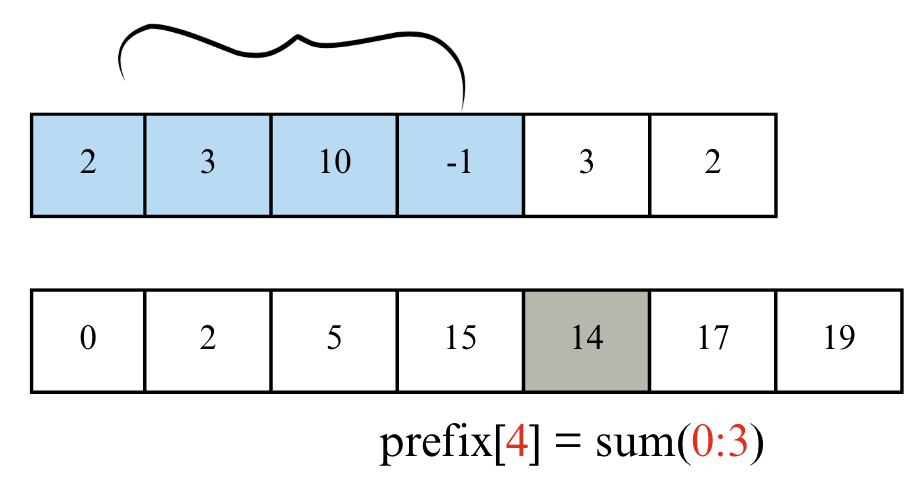
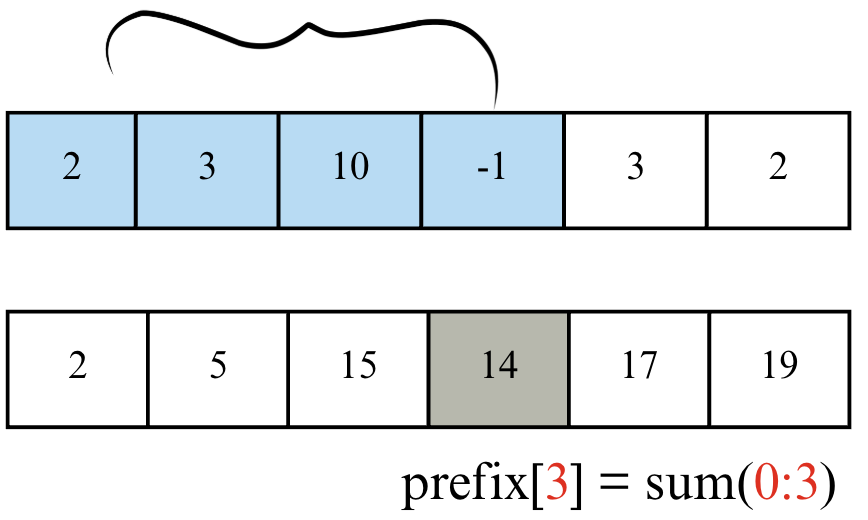
20251110

diff --git a/_pages/theory/10_prefix.md b/_pages/theory/10_prefix.md
@@ -48,17 +48,16 @@ kernelspec:
 :class: dropdown
 
 ```python
-# 기본 배열
 data = [1, 2, 3, 4, 5]
 
-# prefix_sum[i]: data[0] ~ data[i]까지의 합 (i is included)
-prefix_sum = [0] * len(data)
-prefix_sum[0] = data[0] # INIT 
+n= len(data)
+px = [0]*n
 
-for i in range(1, len(data)):
-    prefix_sum[i] = prefix_sum[i-1] + data[i]
+# px[i]: data[0] ~ data[i]까지의 함 (i is included)
+for i in range(n):
+    px[i] = px[i-1] + data[i]
 
-print("Prefix Sum:", prefix_sum)
+print("Prefix Sum:", px)
 ```
 출력: 
 ```bash
@@ -66,21 +65,27 @@ Prefix Sum: [1, 3, 6, 10, 15]
 ```
 ````
 
-위의 코드에서는 prefix[i] = sum[i-1] + A[i]로 계산하였다. 하지만 이 방식은 추가적으로 초기화 코드라인이 필요하기 때문에, 아래와 같은 방식으로 prefix sum array를 계산한다. 
+위의 코드에서는 prefix[i] = sum[i-1] + A[i]로 계산하였다. 하지만 보통은 아래와 같은 방식으로 prefix sum array를 계산한다. 문제 풀이 시에는 계산을 단순하게 하기 위해 보통 prefix 배열을 길이 N+1로 만들고, prefix[0] = 0으로 초기화한다. 즉, prefix[0]이 없는 경우, 
 
+arr[0]~arr[3] 구간합 = px[3]
+arr[1]~arr[3] 구간합 = px[3] - px[0]
+
+으로 prefix[0]이 arr[0]을 포함하고 있어 인덱스 계산이 번거롭게 달라져 계산 실수할 수 있다. 
+
+<img src="../../assets/img/prefix/8.png" width="500px">
+
+따라서 위의 그림처럼 prefix[0]= 0을 포함하여 일관성있게 0-based에서 [i:j]구간합을 prefix[j+1]-prefix[i]로 계산할 수 있게 코드를 구현한다.
 
 ````{admonition} Prefix 배열의 첫 번째 원소를 0으로 두기 
 :class: dropdown
 
 문제 풀이 시에는 계산을 단순하게 하기 위해 보통 prefix 배열을 길이 N+1로 만들고, prefix[0] = 0으로 초기화한다. 
-즉, ***prefix[i]에는 인덱스 [0, i-1]까지의 누적합 = 원소 [1, i] 번째 (1-based) 누적합*** 이 저장된다. 
+즉, ***prefix[i]에는 인덱스 [0, i-1]까지의 누적합*** 이 저장된다. 
 
 - prefix[1] = prefix[0] + data[0] → data[0]까지의 합
 - prefix[2] = prefix[1] + data[1] → data[0] + data[1]까지의 합
 - ... 
 - prefix[i] = data[0]부터 data[i-1]까지의 합
-
-따라서, 원소 [2, 5]번째까지의 누적합은 인덱스 [1, 4]까지의 누적합이고 따라서, prefix[5]-prefix[2]로 계산하면 된다. 
 
 ```{code-block} python
 arr = [1, 2, 3, 4, 5, 6, 7, 8, 9, 10]
@@ -93,7 +98,7 @@ def prefix_sum(arr):
 
     return prefix 
 
-def Sum(prefix_arr, a, b):
+def range_sum(prefix_arr, a, b):
     # a, b: index 
     '''
     [a, b] 모두 포함되어야하므로, 
@@ -106,7 +111,7 @@ prefix_arr = prefix_sum(arr)
 a=1; b=3
 print(f"Arr: {arr}")
 print(f"Prefix: {prefix_arr}")
-print(f"Sum from {a} to {b} is {Sum(prefix_arr, a, b)}")
+print(f"Sum from {a} to {b} is {range_sum(prefix_arr, a, b)}")
 ```
 출력:
 ```bash
@@ -128,8 +133,6 @@ Sum from 1 to 3 is 9
 prefix[i] = \sum_{k=0}^{i-1} A[k]
 \end{gather*}
 
-위에서 구간합 sum(1:4) (4는 포함)을 구할때 sum(0:4)-sum(0:0)이므로 prefix(4+1)-prefix(0+1) 으로 계산하면 된다. 
-
 구간 합 공식은 다음과 같다. <br>
 
 배열 인덱스가 0부터 시작한다고 하고 0-based array에서 preifx[0]=0, len(prefix)= N+1인 prefix array를 이용한 (i, j)의 구간합은 아래와 같다. 
@@ -137,7 +140,7 @@ prefix[i] = \sum_{k=0}^{i-1} A[k]
 \begin{align*}
 \sum(i, j) = prefix[j+1] - prefix[i] 
 \\
-단, $i=0$일 때는 단순히 prefix[j]
+단, i=0일 때는 단순히 \;prefix[j]
 \end{align*}
 
 
@@ -155,11 +158,12 @@ prefix[i] = \sum_{k=0}^{i-1} A[k]
 ````{admonition} Summary
 :class: important 
 
-"Prefix sum은 계산의 중복을 없애는 가장 간단한 전처리 기법이다."
+"Prefix sum"
 
-- Prefix Sum은 누적 합 배열로, 반복 계산을 한 번의 뺄셈으로 줄여줌
-- 한 번 계산해두면, 구간 합을 $O(1)$에 처리 가능
-- 고급 문제(누적 XOR, 구간 평균, DP 전처리)에서도 자주 등장
+- 정의: 누적 합 배열로, 반복 계산을 한 번의 뺄셈을 줄여준다. 
+    - 한 번 계산해두면, 구간 합을 $O(1)$에 처리 가능
+- prefix_sum[j] = prefix_sum[j-1] + data[j-1]
+- range_sum[i:j] = prefix_sum[j+1] - prefix_sum[i]
 ````
 
 ## 2D Prefix Sum 
@@ -190,7 +194,7 @@ prefix[i] = \sum_{k=0}^{i-1} A[k]
 <img src="../../assets/img/prefix/5.png" widths="500px">
 
 \begin{align*}
-P[y][x] = A[y][x] + P[y-1][x] + P[y][x-1] - P[y-1][x-1]
+P[y][x] = P[y-1][x] + P[y][x-1] - P[y-1][x-1] + A[y-1][x-1]
 \end{align*}
 
 ````{admonition} Prefix P array for 2D matrix source code 
@@ -489,6 +493,8 @@ print(count_subarrays_xor_k([4,2,2,6,4], 6)) # 4
 - 질의: 1D/2D 모두 $O(1)$
 - 개수 세기(맵): 한 번의 스캔 $O(N)$, 공간 $O(U)$ (서로 다른 prefix 값의 수)
 ````
+
+## 문자열 Prefix 
 
 ## 연습 문제 
 

diff --git a/_pages/theory/9_greedy.md b/_pages/theory/9_greedy.md
@@ -104,6 +104,51 @@ def solution(n, lost, reserve):
 ````{admonition} solution 
 :class: dropdown 
 
+**Idea** <br>
+1. 세로 비용과 가로 비용을 따로 계산한다. 
+2. 세로 비용: 
+    - 각 문자에 대해 'A'에서 올라가는 것과 'A'->'Z'식으로 내려가는 것 중 MIN값 
+3. 가로 비용: 
+    - 기본적으로 오른쪽으로 쭉 가면 n-1 번 (문자열 길이 n)
+    - 중간에 연속된 'A'구간을 만나면, 되돌아갔다가 반대쪽으로 우회하면 더 적을 수 있음. 
+    - 인덱스 i에서 시작해, i 뒤의 연속 'A' 끝 지점을 j라고 할 때(즉, [i+1..j-1]가 전부 'A'):
+    - 가로 이동 후보는 세 가지를 비교해 최소값을 갱신해.
+        - 그냥 직진: n-1
+        - 오른쪽 갔다가 (0->1->2->..) 왼쪽으로 돌아가서 + 오른쪽 우회: 2*i + (n - j)
+        - 왼쪽으로 갔다가(n-1->n-2->) 오늘쪽으로 우회 +  우회: i + 2*(n - j)
+    - 연속된 A부분을 최대한 건너뛰어야하고, 커서를 되돌아가는 경우가 오히려 더 적게 이동할 때가 있어서 이 공식을 사용 
+
 ```{code-block} python
+def solution(name: str) -> int:
+    n = len(name)
+
+    # 1) 세로(↑↓) 비용
+    vertical = 0
+    for c in name:
+        diff = ord(c) - ord('A')
+        vertical += min(diff, 26 - diff)
+
+    # 2) 가로(←→) 최소 이동
+    move = n - 1  # 기본 직진
+    for i in range(n):
+        j = i + 1
+        # 연속된 'A' 구간을 스킵
+        while j < n and name[j] == 'A':
+            j += 1
+        # 세 가지 경로 중 최소
+        move = min(
+            move,
+            2 * i + (n - j),     # 왼쪽으로 되돌아 + 오른쪽 우회
+            i + 2 * (n - j)      # 오른쪽 갔다가 + 왼쪽 되돌아 우회
+        )
+
+    return vertical + move
+
 ```
 ````
+
+### 큰 수 만들기 
+
+[문제 링크](https://school.programmers.co.kr/learn/courses/30/lessons/42883)
+
+
